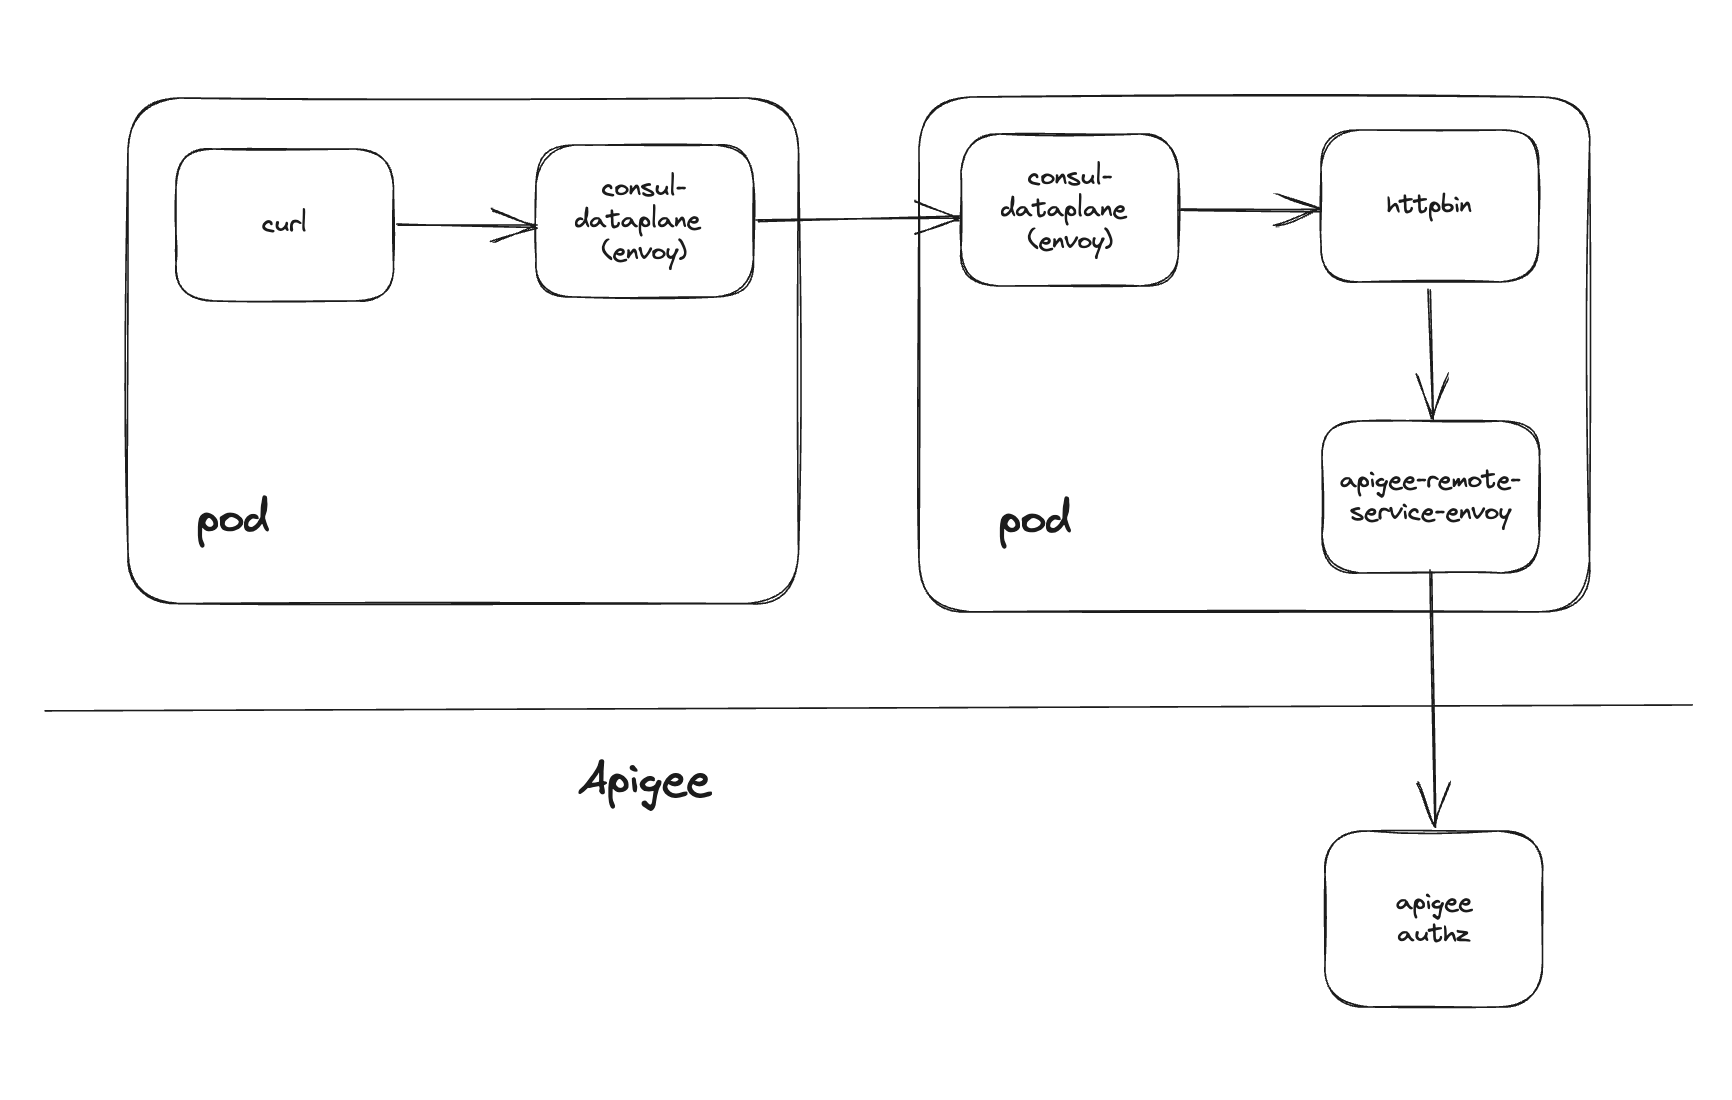
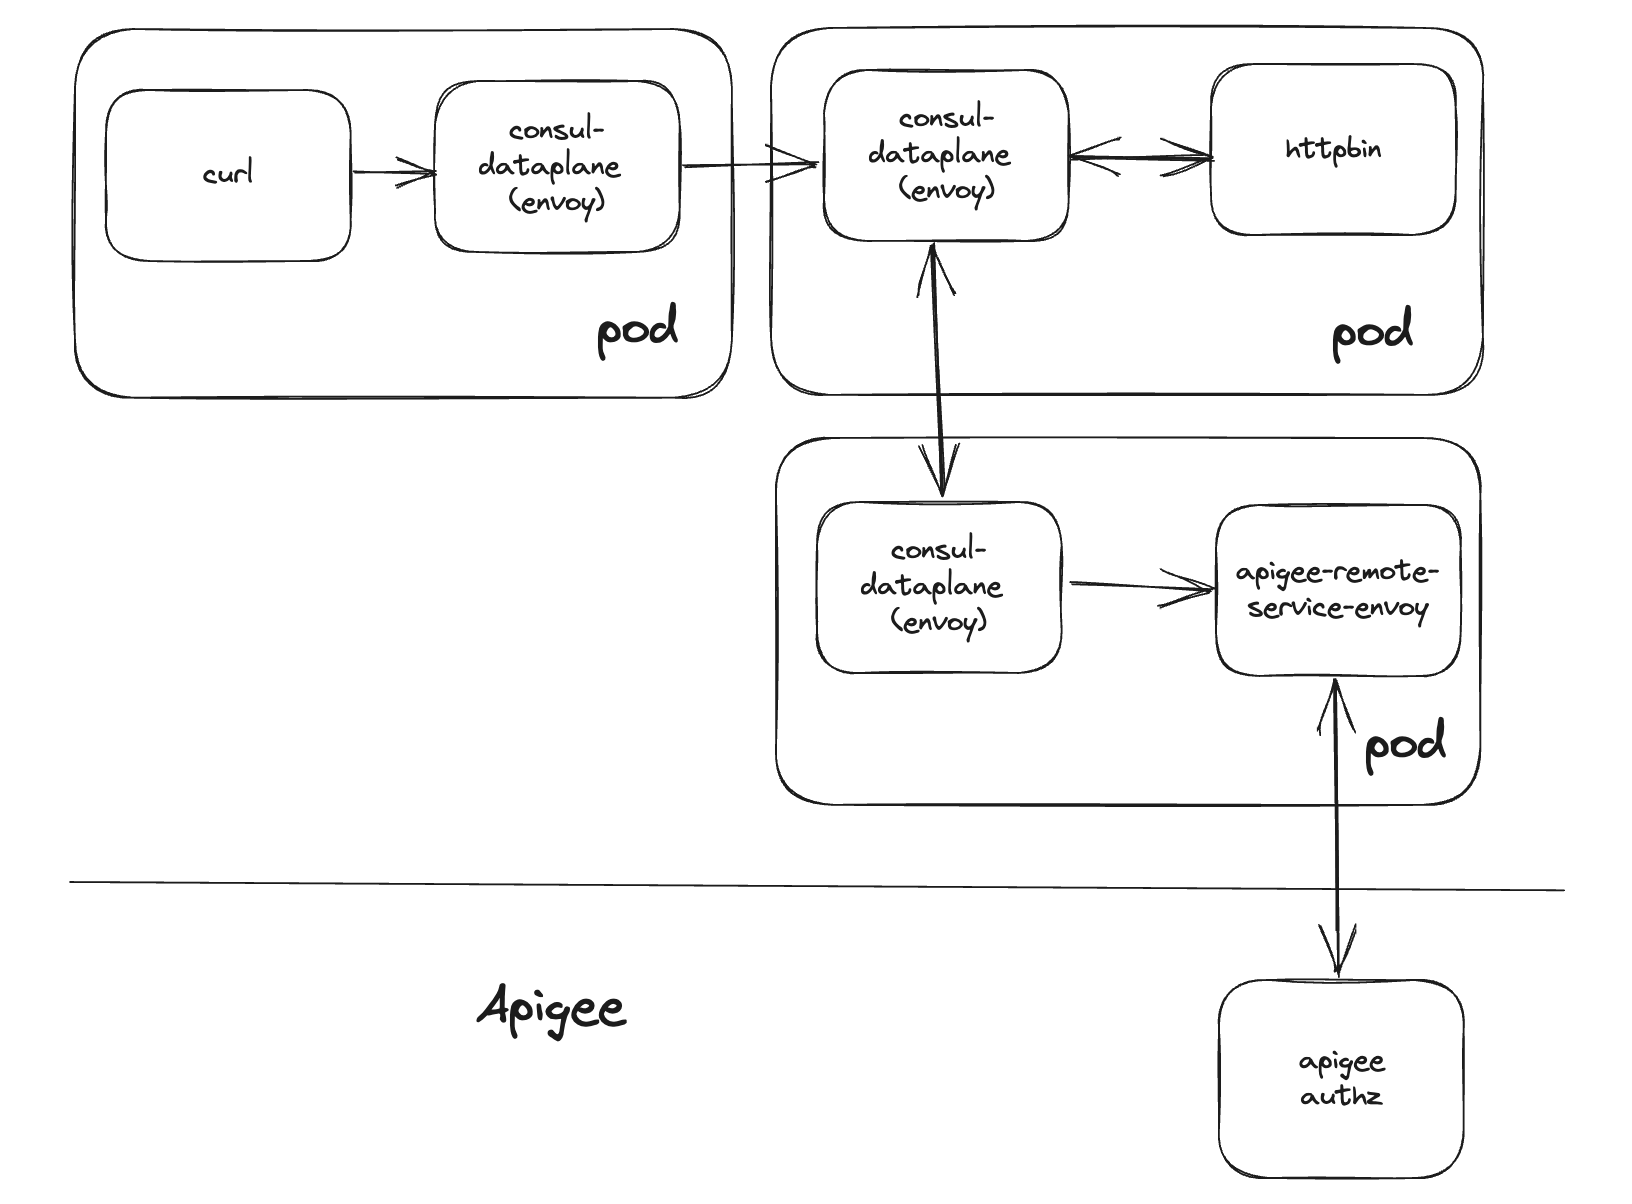
apigee proxy as a service working

diff --git a/README.md b/README.md
@@ -124,11 +124,23 @@ kubectl apply -f config.yaml
 yq eval 'select(.metadata.namespace == "apigee") | .metadata.namespace = "default"' -i "config.yaml"
 kubectl apply -f config.yaml
 
-# configure httpbin service
+# configure apigee-envoy-adapter deployment yaml
 export SECRET_NAME="${ORG}-${ENV}-policy-secret"
-yq eval '.spec.template.spec.volumes[1].secret.secretName = env(SECRET_NAME)' -i app/httpbin.yaml
+yq eval '.spec.template.spec.volumes[1].secret.secretName = env(SECRET_NAME)' -i apigee/apigee-envoy-adapter.yaml
+yq eval '.spec.template.metadata.labels.org = env(ORG)' -i apigee/apigee-envoy-adapter.yaml
+yq eval '.spec.template.metadata.labels.env = env(ENV)' -i apigee/apigee-envoy-adapter.yaml
 
-# Create consul intention between curl and httpbin
+# configure apigee-envoy-adapter service yaml
+yq eval '.metadata.labels.org = env(ORG)' -i apigee/apigee-envoy-adapter-svc.yaml
+yq eval '.metadata.labels.env = env(ENV)' -i apigee/apigee-envoy-adapter-svc.yaml
+
+# Deploy the proxy and it's service in K8s
+kubectl apply -f apigee/
+
+# Configure the apigee-envoy-adapter service as grpc in Consul using Service Default
+kubectl apply -f consul/proxy_service_default.yaml
+
+# Create consul intentions as such curl -> httpbin & httpbin -> apigee-envoy-adapter
 kubectl apply -f consul/intentions.yaml
 
 # Deploy the 2 services
